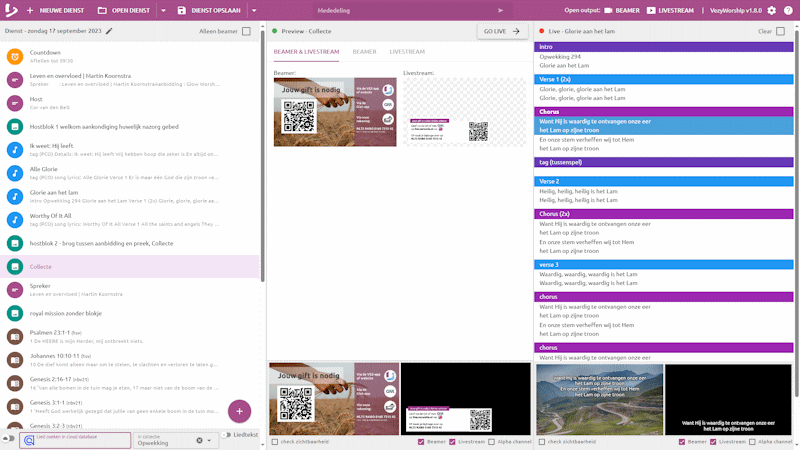
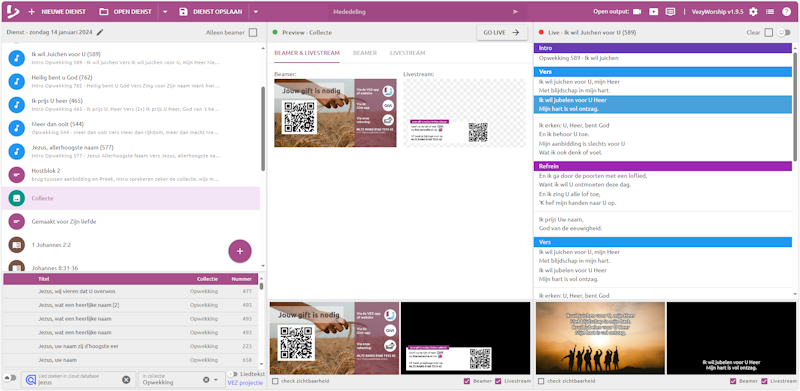
help 1.9.5 update

diff --git a/src/components/help/HelpMain.vue b/src/components/help/HelpMain.vue
@@ -6,7 +6,7 @@
     </div>
     <p>
       Presentatiesoftware voor beamer én livestream met afzonderlijke weergave voor beamer en livestream.<br>
-      De livestream uitvoer is voorzien van het alpha channel (en kan ook voor chroma key worden gebruikt).<br>
+      De beamer & livestream uitvoer zijn tevens voorzien van het alpha channel (en kan ook voor chroma key worden gebruikt).<br>
       Tevens is er een stage & PCO live weergave aanwezig mogelijk.
     </p>
     <p>De dienst is thuis voor te bereiden via de web app. En in de kerk te openen op de desktop met uitvoer naar de verschillende schermen.</p>
@@ -82,17 +82,23 @@
         De PCO live weergave kan je starten met de knop <img src="../../assets/help/pcolive.png"> , met de rechter muisknop op deze knop kan je dit scherm ook leeg maken of een andere live dienst uit PCO kiezen via de id.
       </li>
       <li>
-        Een achtergrond kleur instellen voor de livestream en beamer bijv. voor gebruik van de chroma key (of weer leeg gehaald worden voor standaard waarden).
+        Een achtergrond kleur instellen voor de livestream en beamer bijv. voor gebruik van de chroma en/of alpha key (of weer leeg gehaald worden voor standaard waarden).
+      </li>
+      <li>
+        Welk thema je wilt gebruiken voor (liederen) weergave: Standaard bovenin of Glow (gecentreerd in midden met capitalen).
       </li>
       <li>
         Hoeveel regels de liedtekst standaard gesplitst moet worden op de beamer.
       </li>
       <li>
-        Welke liederen database gebruikt moet worden standaard, de lokale of cloud versie.<br>
+        Welke liederen database gebruikt moet worden standaard, de lokale of een van de cloud versies.<br>
         In welke collectie je standaard wilt zoeken.<br>
         Welk lokale database bestand je wilt gebruiken.<br>
         De cloud database downloaden voor lokaal gebruik.<br>
         En je kunt de lokale database hier bewerken evenals de cloud versie mits je de juiste rechten hebt.
+      </li>
+      <li>
+        De app in donkere modes wilt weergeven ipv de standaard lichte weergave versie.
       </li>
     </ul>
   </p>

diff --git a/src/components/help/HelpLive.vue b/src/components/help/HelpLive.vue
@@ -81,8 +81,8 @@
       Voorbeeld uitvoer onderin "preview" & "live"
     </div>
     <p>
-      Onderin zijn 3 preview schermen mogelijk (zowel onder de preview kolom als wel onder de live kolom).<br>
-      Standaard staan alleen de bovenste 2 aan; maar je kan dit wisselen door de onderstaande vinkjes aan/uit te zetten.<br>
+      Onderin zijn 2(+2) preview schermen mogelijk (zowel onder de preview kolom als wel onder de live kolom).<br>
+      Standaard staan de beamer en livestream; maar je kan dit wisselen door de onderstaande vinkjes aan/uit te zetten; via de rechtermuisknop op beamer/livestream kan je ook de alpha uitvoer laten zien.<br>
       <img src="../../assets/help/previewkeuzeoutput.png">
       <ul>
         <li>
@@ -92,8 +92,11 @@
           De livestream uitvoer
         </li>
         <li>
-          Het alpha channel van de livestream.<br>
-          <i>Deze geeft met zwart/wit aan welke onderdelen wel of niet transparant moeten worden van de livestream uitvoer over de film beelden heen. (Zwart = op deze plek filmbeeld behouden; Wit = hier de livestream output tonen.)</i>
+          De alpha uitvoer van de beamer/livestream.<br>
+          <i>
+            Deze geeft met zwart/wit aan welke onderdelen wel of niet transparant moeten worden van de livestream uitvoer over de film beelden heen. (Zwart = op deze plek filmbeeld behouden; Wit = hier de livestream output tonen.)<br>
+            Let op om de alpha uitvoer van de beamer te laten werken dient bij de instellingen een zwarte achtergrond kleur gekozen te worden voor de beamer ipv de standaard afbeelding, daarnaast mag er ook geen afbeelding bij de dienst instellingen worden gekozen. Deze afbeeldingen zorgen er anders voor dat de alpha uitvoer van de beamer geheel wit is.
+          </i>
         </li>
         <li>
           Tevens kan je hier ook een overlay over je preview zetten om te beoordelen of de gegevens goed zichtbaar zijn in alle hoeken van de zaal.<br>

diff --git a/src/components/help/HelpSong.vue b/src/components/help/HelpSong.vue
@@ -145,7 +145,8 @@
       <img src="../../assets/help/addsongdialogadddatabase.png"><br>
       Er kunnen via de databaseknop ook liederen uit de lokale of online (Angolia) database toegevoegd worden.<br>
       Met de switch voor de databaseknop kan je wisselen tussen de lokale en de online database.<br>
-      opm. de Algolia database ondersteund ook zoeken met kleine typefouten, de lokale database niet.
+      Er zijn meerdere online (Algolia) databases; rechts onderaan kun je deze kiezen/wisselen door aanklikken of via rechtermuisknop uit het menu te kiezen welke database je wilt gebruiken.<br>
+      opm. de Algolia database(s) ondersteund ook zoeken met kleine typefouten, de lokale database niet.
     </p>
     <p>
       <img src="../../assets/help/addsongdatabasedialog.png"><br>
@@ -168,6 +169,7 @@
       Liederen importeren uit de setlist naar de database kan via het uitklapvenster naast dienst opslaan.<br>
       De liederen worden dan vergeleken met de database en je kan dan kiezen tussen, vervangen, toevoegen of niets doen..<br>
       Ook hier zoekt hij naar liederen die het meest op de liederen uit de setlist in de database lijken.<br>
+      <i>opm.: toevoegen aan de cloud database kan alleen wanneer je daarvoor de bewerk api-key in de instellingen hebt opgegeven van de actieve online database.</i><br>
       <img src="../../assets/help/addsetlistsongtodatabase.png"><br>
       <img src="../../assets/help/addsetlistsongtodatabasedialog.png">
     </p>

diff --git a/src/components/help/HelpMainSetlist.vue b/src/components/help/HelpMainSetlist.vue
@@ -35,7 +35,8 @@
         Kies een achtergrond afbeelding uit een bestand (in formaat uitvoerscherm 1920x1080).<br>
         <i>
           Deze afbeelding wordt standaard tijdens de dienst als achtergrond op de beamer getoond.
-          (achteraf ook aan te passen)
+          (achteraf ook aan te passen)<br>
+          Let op wanneer je gebruik maakt van de beamer alpha uitvoer, kies hier dan geen afbeelding!
         </i>
       </li>
       <li>

diff --git a/HowTo.md b/HowTo.md
@@ -54,6 +54,9 @@ in terminal:
     ALGOLIA_INDEX_NAME=...
     ALGOLIA_API_KEY_SEARCH=...
     ALGOLIA_USER=...
+    ALGOLIA_INDEX_NAME_1=...
+    ALGOLIA_API_KEY_EDIT_1=...
+    VEZY_API_TOKEN_EDIT_1=...
   ```
   `.secret.local` (deze ook in firebase secrets manager plaatsen | https://console.cloud.google.com/security/secret-manager)
   ```
@@ -131,12 +134,16 @@ in terminal:
 
 ### Aanmaken Algolia zoek index:
 - via algolia.com
-  - index aanmaken
+  - index(es) aanmaken
   - json van database lokaal importeren (.vezdb uitpakken = zip)
   - Searchable attributes: title(o) > collection(o) > number (o) > lyrics(u)
   - facets (display): collection, maxFacetHits = 50 (of anders afhankelijk aantal collections)
   - get api-key's
   - ps. onder de /dev/export-algolia-settings.json is een instelling bestand te vinden.
+  - Basis gebruikt nu 2 databases, kan je ook 1 of meer van maken; pas hiervoor ondertaande bestanden aan:
+    `\api\index.js` > `function algoliaIndexName, algoliaApiKeyEdit, vezApiTokenEdit`
+    `\api\.env` > voer hier de in bovestaand gebruikte variabelen in
+    `src\components\song\database\algolia.js` > vul de naamgeving van de databases in `algoliaIndexNames` 
 
 ### VS-code extentions die ik gebruik:
 - es6-string-html

diff --git a/README.md b/README.md
@@ -13,11 +13,12 @@ Presentatiesoftware voor beamer én livestream
 - Dienst thuis voor te bereiden via de web app.
 - Automatische liedvertaling d.m.v. [DeepL](https://www.deepl.com/whydeepl).
 - Automatisch importen setlist vanuit [PCO](https://planningcenteronline.com/)
-- Zoeken naar liederen in lokale of online database [Algolia](https://algolia.com/)
+- Zoeken naar liederen in lokale of online database(s) [Algolia](https://algolia.com/)
 - Bijbelteksten inladen vanuit meerdere Bijbelvertalingen.
 - Mededelingen tonen die aandacht van de gemeente vereisen.
 - Countdown tot begin van de dienst.
-- Autoupdate functie bij nieuwe versie
+- Standaard en donkere weergave modes.
+- Autoupdate functie bij nieuwe versie.
 
 ## Licentie
 <a rel="license" href="https://creativecommons.org/licenses/by-nc/4.0/deed.nl"><img alt="Creative Commons-Licentie" style="border-width:0" src="https://licensebuttons.net/l/by-nc/4.0/88x31.png" /></a><br />VezyWorship valt onder een <a rel="license" href="https://creativecommons.org/licenses/by-nc/4.0/deed.nl">CC BY-NC 4.0 licentie</a>.
